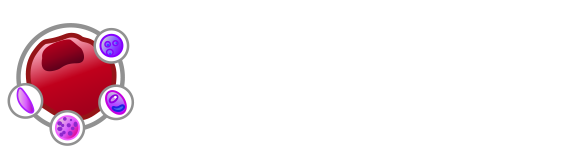
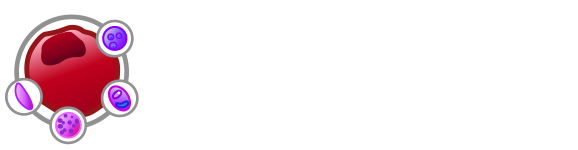
artwork header

Changed region(s): [[0.0, 0.08, 0.2666, 0.9867]]

diff --git a/Site/webapp/wdkCustomization/js/client/components/homepage/VEuPathDBHomePage.scss b/Site/webapp/wdkCustomization/js/client/components/homepage/VEuPathDBHomePage.scss
@@ -34,11 +34,6 @@ body.vpdb-Body {
         height: 85px;
       }
 
-      .ebrc-HeaderBrandingContainer {
-        position: relative;
-        bottom: 1em;
-      }
-
       &__collapsed {
         .ebrc-HeaderBranding {
           height: 48px;
